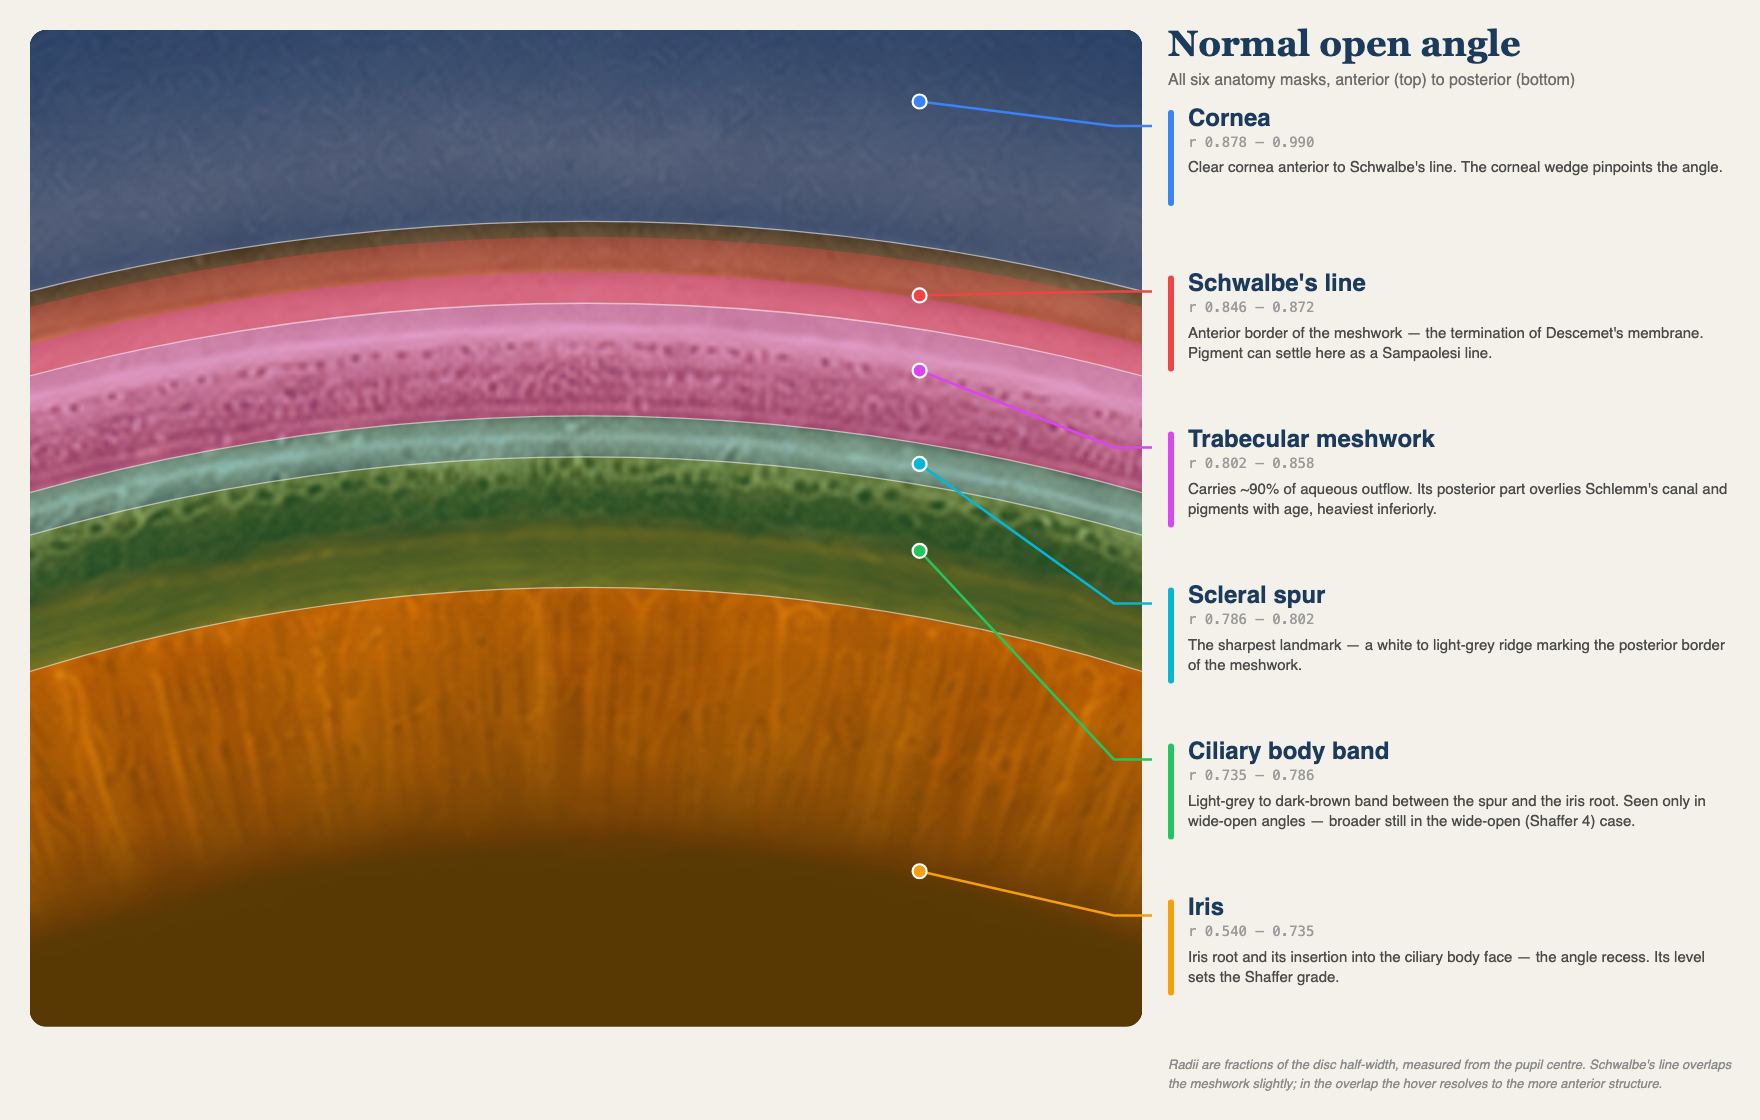
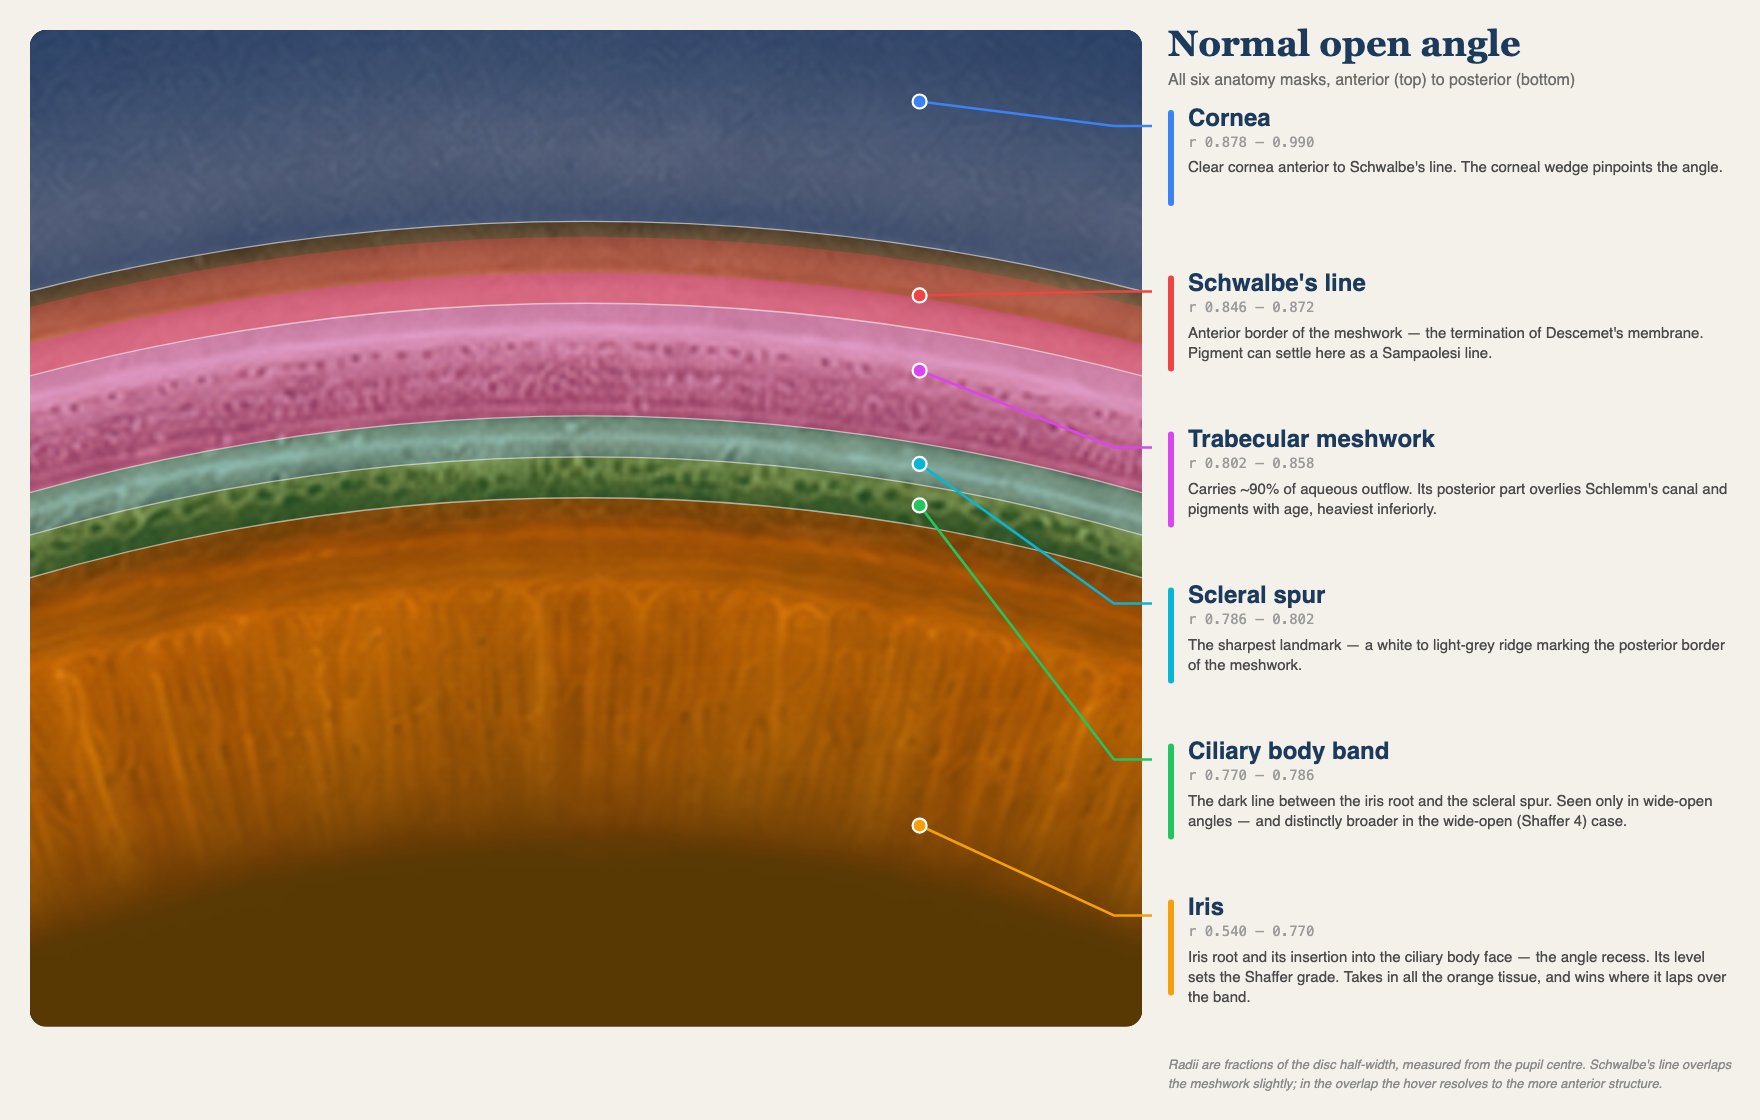
Stop the tilt locking the page; iris takes the orange, band is the dark line
Tilt was freezing the page. Three causes, all fixed:

- Every rebuild reset the warp canvas's width, which reallocates it. At 2475²
  that is ~24 MB discarded and reclaimed per tilt step. It is now sized only
  when the disc changes.
- The rebuild ran synchronously inside geom(), which is called several times a
  frame and on every mouse move, so one wheel gesture could stack up dozens of
  full re-images. geom() now only reads the cached warp; rebuilding is thrown
  once per frame from render(). Image, masks and findings still move together,
  since they all read that one cached profile.
- Rings were built across the whole disc including the pupil, which is never on
  screen. Everything inside r=0.40 is one draw instead of ~200 rings.

Forty wheel events now cost 1.5 ms in total, with a 3.2 ms frame to follow;
each of those events used to trigger its own rebuild.

Masks: the iris now takes in all the orange tissue and laps over the ciliary
band, which is just the dark line before the spur. The iris is tested first so
it wins the overlap. setDeepest was also overwriting the iris's outer edge to
butt against the band even when nothing was covered, which flattened the lap;
it now only stretches the iris when a structure really is covered — verified
still doing so on Grade 2.

diff --git a/viewer.js b/viewer.js
@@ -56,8 +56,10 @@
 
   // structures as concentric bands, radius in fractions of the disc half-width
   var STRUCTURES = [
-    { name: "Iris",                rIn: 0.54, rOut: 0.735 },
-    { name: "Ciliary body band",   rIn: 0.735, rOut: 0.786 },
+    // the iris takes in all the orange tissue; the ciliary band is only the dark
+    // line between it and the scleral spur
+    { name: "Iris",                rIn: 0.54, rOut: 0.770 },
+    { name: "Ciliary body band",   rIn: 0.764, rOut: 0.786 },
     { name: "Scleral spur",        rIn: 0.786, rOut: 0.802 },
     { name: "Trabecular meshwork", rIn: 0.802, rOut: 0.858 },
     { name: "Schwalbe's line",     rIn: 0.846, rOut: 0.872 },
@@ -83,7 +85,10 @@
       STRUCTURES[i].rOut = DEFAULT_STRUCTURES[i].rOut;
       activeMask[i] = (i === 0) || (i >= deepest);
     }
-    STRUCTURES[0].rOut = DEFAULT_STRUCTURES[deepest].rIn;   // iris fills the covered zone
+    // The iris is stretched over whatever is covered — but only when something
+    // actually is. With the angle fully open it keeps its own outer edge, which
+    // deliberately laps over the ciliary band so the orange tissue reads as iris.
+    if (deepest > 1) STRUCTURES[0].rOut = DEFAULT_STRUCTURES[deepest].rIn;
     if (hoverStruct >= 0 && !activeMask[hoverStruct]) hoverStruct = -1;
   }
   var MASKS_ON = true;     // hover glow + floating name label (toggleable)
@@ -149,9 +154,22 @@
   var warpCanvas = document.createElement("canvas");
   var wctx = warpCanvas.getContext("2d");
 
-  function warpFor() {
+  /* geom() only ever reads the cached warp — it is called several times a frame
+     and on every mouse move, so it must never trigger a rebuild. */
+  function warpFor() { return warp; }
+
+  /* Rebuilding is instead thrown once per animation frame, from render(). A
+     wheel gesture fires far more events than there are frames, and each rebuild
+     used to run synchronously inside geom(), so a single scroll could stack up
+     dozens of full re-images and lock the page. Throttling to the frame means at
+     most one per paint, and the image, masks and findings still move together
+     because they all read this same cached profile. */
+  var warpDirty = true;
+  function refreshWarp() {
     var q = Math.round(tilt * 50) / 50;                  // quantised, so drags reuse
-    if (warp.q === q) return warp;
+    if (!warpDirty && warp.q === q) return;
+    warpDirty = false;
+    if (warp.q === q) return;
     var d = q * TILT_MAX_RAD, cd = Math.cos(d), sd = Math.sin(d);
     var rv = viewRadius();
     function raw(r) { return r * cd + wallZ(r) * sd; }
@@ -171,7 +189,6 @@
 
     warp.q = q; warp.W = W; warp.inv = inv;
     warp.canvas = (Math.abs(q) < 0.005 || !loaded) ? null : buildWarpedDisc(inv);
-    return warp;
   }
 
   /* Re-image the en-face disc under the reprojection. This resamples pixel by
@@ -181,7 +198,12 @@
      tilt and cached, so the draw loop stays a single drawImage. */
   function buildWarpedDisc(inv) {
     var w = disc.width, h = disc.height, half = w / 2, cx = half, cy = h / 2;
-    warpCanvas.width = w; warpCanvas.height = h;
+    // Resizing a canvas reallocates it — at 2475² that is ~24 MB thrown away and
+    // reclaimed on every tilt step, which on its own was enough to stall the
+    // page. Size it only when the disc actually changes; otherwise just clear.
+    if (warpCanvas.width !== w || warpCanvas.height !== h) {
+      warpCanvas.width = w; warpCanvas.height = h;
+    }
     wctx.setTransform(1, 0, 0, 1, 0, 0);
     wctx.clearRect(0, 0, w, h);
     // Rings are drawn outward, each one's clip running a little past its outer
@@ -189,7 +211,19 @@
     // two anti-aliased edges meet at every boundary, each covering half the
     // pixel, and the shortfall shows up as a hairline ring on the image.
     var N = 560, SPAN = 1.06, over = 2.4 / half, i, R0, R1, rm, k;
-    for (i = 0; i < N; i++) {
+    /* Only the outer part of the disc is ever on screen — the frame bottom sits
+       near r≈0.54 — and everything inside that is unlit pupil. Cover it with one
+       draw instead of ~200 rings; the map is linear there anyway, since the
+       angle wall has not started to climb. */
+    var INNER = 0.40;
+    k = INNER / inv(INNER);
+    wctx.save();
+    wctx.beginPath(); wctx.arc(cx, cy, (INNER + over) * half, 0, TWO_PI); wctx.clip();
+    wctx.translate(cx, cy); wctx.scale(k, k); wctx.translate(-cx, -cy);
+    wctx.drawImage(disc, 0, 0);
+    wctx.restore();
+
+    for (i = Math.floor(INNER / SPAN * N); i < N; i++) {
       R0 = i / N * SPAN; R1 = (i + 1) / N * SPAN;
       rm = inv((R0 + R1) / 2);
       if (!(rm > 1e-4)) continue;
@@ -254,9 +288,13 @@
     // masks stay locked to the anatomy at every tilt
     var g = geom(), rApp = Math.hypot(cx - g.px, cy - g.py) / g.unit;
     var r = g.w.inv ? g.w.inv(rApp) : rApp;
-    // iterate outermost→innermost so that where bands overlap the more
+    // The iris is tested first, so it wins wherever it overlaps the ciliary
+    // band: the band is only the dark line, and iris tissue lying in front of it
+    // should read as iris.
+    if (activeMask[0] && r >= STRUCTURES[0].rIn && r < STRUCTURES[0].rOut) return 0;
+    // otherwise iterate outermost→innermost, so where bands overlap the more
     // anterior structure (e.g. Schwalbe's line over TM) wins the hover
-    for (var i = STRUCTURES.length - 1; i >= 0; i--) {
+    for (var i = STRUCTURES.length - 1; i >= 1; i--) {
       if (!activeMask[i]) continue;                 // hidden in this pathology
       if (r >= STRUCTURES[i].rIn && r < STRUCTURES[i].rOut) return i;
     }

diff --git a/reference.html b/reference.html
@@ -20,10 +20,12 @@ var PUPIL_CY = 2.3, DISC_ZOOM = 3.85, TWO_PI = Math.PI * 2;
 
 // posterior → anterior, as in viewer.js
 var STRUCTURES = [
-  { name:"Iris",                rIn:0.54,  rOut:0.735, col:"#f59f0b",
-    note:"Iris root and its insertion into the ciliary body face — the angle recess. Its level sets the Shaffer grade." },
-  { name:"Ciliary body band",   rIn:0.735, rOut:0.786, col:"#22c55e",
-    note:"Light-grey to dark-brown band between the spur and the iris root. Seen only in wide-open angles — broader still in the wide-open (Shaffer 4) case." },
+  // drawn at their effective edges: the iris mask laps to 0.770 over the band,
+  // and takes precedence there, so the band reads from 0.770 outward
+  { name:"Iris",                rIn:0.54,  rOut:0.770, col:"#f59f0b",
+    note:"Iris root and its insertion into the ciliary body face — the angle recess. Its level sets the Shaffer grade. Takes in all the orange tissue, and wins where it laps over the band." },
+  { name:"Ciliary body band",   rIn:0.770, rOut:0.786, col:"#22c55e",
+    note:"The dark line between the iris root and the scleral spur. Seen only in wide-open angles — and distinctly broader in the wide-open (Shaffer 4) case." },
   { name:"Scleral spur",        rIn:0.786, rOut:0.802, col:"#06b6d4",
     note:"The sharpest landmark — a white to light-grey ridge marking the posterior border of the meshwork." },
   { name:"Trabecular meshwork", rIn:0.802, rOut:0.858, col:"#d946ef",

diff --git a/data.js b/data.js
@@ -167,8 +167,8 @@ Gonio.CASES = [
   },
   {
     id: "closure_g4", group: "Angle closure — Shaffer grade", disc: "wide_open.png",
-    // this disc draws the broad ciliary band starting at 0.720, not 0.735
-    masks: [{ rOut: 0.720 }, { rIn: 0.720 }],
+    // this disc's dark ciliary band sits further in, and is broader
+    masks: [{ rOut: 0.760 }, { rIn: 0.752 }],
     name: "Grade 4 — Wide open",
     description: "A wide-open angle — the full width of the ciliary body band is visible all the way round (Shaffer 4, 35–45°). Compare the band here with the narrower one in the normal angle: this breadth of ciliary body face is what marks the angle as wide open.",
     clockHours: makeClockHours(
